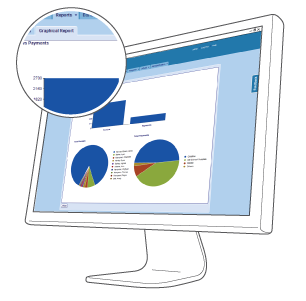
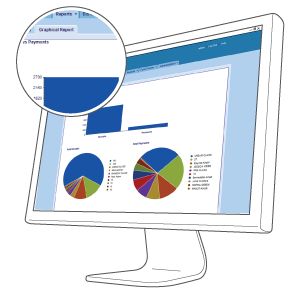
static files update

diff --git a/mypebble/templates/forms/form_sent.html b/mypebble/templates/forms/form_sent.html
@@ -1,17 +1,52 @@
-<!doctype html>
-<head>
-    <meta charset="utf-8">
-    <title>{{ form.title }}</title>
-    <style>
-        body {font-family:sans-serif; padding:1em 2em;}
-        p {width:50em;}
-        label {display:block; float:left; width:10em;}
-        .errorlist {color:#f00;}
-    </style>
-</head>
-<body>
-    <h1>{{ form.title }}</h1>
-    {% if form.response %}
-    <p>{{ form.response }}</p>
-    {% endif %}
-</body>
+{% extends "base.html" %}
+{% load cms_tags %}
+{% block primary %}
+<div class="enquiries">
+        <div class="body" id="body">{% placeholder "Welcome" %} 
+                              <div class="row">
+                    <h1>Message Sent</h1>
+                    <div class="grid2 content"> <!-- Column. Modules inside will stack vertically -->
+                        <div class="box grid2">
+                            <div class="box-inner">
+                                <div class="form enquiries-form">
+                                    <h2>{{ form.title }}</h2>
+                                        {% if form.response %}
+                                            <p>{{ form.response }}</p>
+                                        {% endif %}
+   <img alt="Fund Manager" class="pull-right" src="{{ STATIC_URL }}img/fm/fm_screen.png"/>
+                                </div>
+                            </div>
+                        </div>
+                    </div>
+                    <div class="grid1 sidebar device"> <!-- Column. Modules inside will stack vertically -->
+                        <div class="support supportbox onlinesupportbox box grid1">
+                            <div class="box-inner">
+                                <h2 class="title">We're available</h2>
+                                <div class="description">
+                                    <p>
+                                        <i class="i icon-email-white"></i> <a href="mailto:info@talktopebble.co.uk">info@talktopebble.co.uk</a><br/>
+                                        <i class="i icon-email-white"></i> <a href="mailto:support@talktopebble.co.uk">support@talktopebble.co.uk</a><br/>
+                                        <i class="i icon-twitter-white"></i> <a href="https://twitter.com/pebblesff" target="_blank">@PebbleSFF</a><br/>
+                                        <i class="i icon-phone-white"></i> Tel: 0845 310 1788<br/>
+                                        <i class="i icon-blank"></i> <small>Mon – Fri 8:30am – 5.30pm</small><br/>
+                                        <i class="i icon-phone-white"></i> Fax: 0845 310 1777
+                                    </p>
+                                    <div class="vcard">
+                                        <div class="fn org"><strong>Pebble Ltd</strong></div>
+                                        <div class="adr">
+                                            <div class="street-address">Media Exchange Three</div>
+                                            <div>Coquet Street</div>
+                                            <div class="locality">Newcastle upon Tyne</div>
+                                            <div class="postal-code">NE1 2QB</div>
+                                            <div class="country-name visuallyhidden">United Kingdom</div>
+                                        </div>
+                                    </div>
+                                </div>
+                            </div>
+                        </div>
+                    </div>
+                </div>
+            </div><!--/.container-->    
+        </div><!--/.body-->
+ {% endblock %} 
+

diff --git a/mypebble/templates/newsletter.html b/mypebble/templates/newsletter.html
@@ -1,0 +1,38 @@
+{% extends "base.html" %}
+{% load cms_tags %}
+{% block primary %}
+<div class="enquiries">
+    <div class="body" id="body">
+        <div class="row">
+            <h1>{% placeholder "pgtitle" or  %}{% endplaceholder %}</h1>
+                <div class="grid2 content"> <!-- Column. Modules inside will stack vertically -->
+                    <div class="box grid2">
+                        <div class="box-inner">
+                            {% placeholder "main_content" or %} {% endplaceholder %} 
+  <!-- Newsletter -->
+  
+<div id="mc_embed_signup">
+<form action="http://talktopebble.us5.list-manage2.com/subscribe/post?u=1c8b9f93d89b4f1e6ddd27ff2&amp;id=8e37535111" method="post" id="mc-embedded-subscribe-form" name="mc-embedded-subscribe-form" class="validate" target="_blank">
+	<label for="pin">Subscribe to our mailing list</label>
+	<input type="email" value="" name="EMAIL" class="charfield pin" id="mce-EMAIL" placeholder="email address" required>
+	
+	<input type="submit" value="Send" name="subscribe" id="mc-embedded-subscribe" class="btn">
+</form>
+  
+  </div>
+                        </div>
+                    </div> 
+                </div>
+                    <div class="grid1 sidebar partners"> <!-- Column. Modules inside will stack vertically -->
+                        <div class="supportcommunitybox box grid1">
+                            <div class="box-inner">
+                                <h2 class="title">{% placeholder "side_secondary_h" or %}{% endplaceholder %}</h2>
+                                    <div class="description">
+{% placeholder "side_secondary_p" or %}{% endplaceholder %}
+                                    </div>
+                </div>
+            </div>
+        </div>
+    </div>        
+</div>
+{% endblock %} 

diff --git a/mypebble/templates/product_fm.html b/mypebble/templates/product_fm.html
@@ -87,7 +87,7 @@
                             </div>
                             <div class="item" id="item4">
                                 <div class="image">
-                                    <img src="img/300x305.gif" alt="Screenshot"/>
+                                    <img src="{{ STATIC_URL }}img/fm/fm_graph.png" alt="Screenshot"/>
                                 </div>
                                 <div class="text">
                                     <h2 class="title">Graphic Reports</h2>

diff --git a/mypebble/settings.py b/mypebble/settings.py
@@ -154,6 +154,7 @@ INSTALLED_APPS = (
    #'cmsplugin_contact',
 
     'cms.plugins.file',
+    'cms.plugins.video',
     #'cms.plugin.flash',
     'cms.plugins.googlemap',
     'cms.plugins.link',
@@ -212,14 +213,17 @@ CMS_TEMPLATES = (
     ('about.html', 'About Template'),
     ('upgrade.html', 'Upgrade Template'),
     ('test.html', 'Test Template'),
+    ('newsletter.html', 'Newsletter'),
     #('blog.html', 'blog Template'),
     #('cmsplugin_blog_base.html','cmsplugin_blog'),
 
 
 )
 
+#for blog
 JQUERY_JS = 'https://ajax.googleapis.com/ajax/libs/jquery/1.4.4/jquery.min.js'
 JQUERY_UI_JS = 'https://ajax.googleapis.com/ajax/libs/jqueryui/1.8.12/jquery-ui.min.js'
 JQUERY_UI_CSS = 'http://ajax.googleapis.com/ajax/libs/jqueryui/1.8.12/themes/smoothness/jquery-ui.css'
 
+#SEO
 CMS_SEO_FIELDS = True
